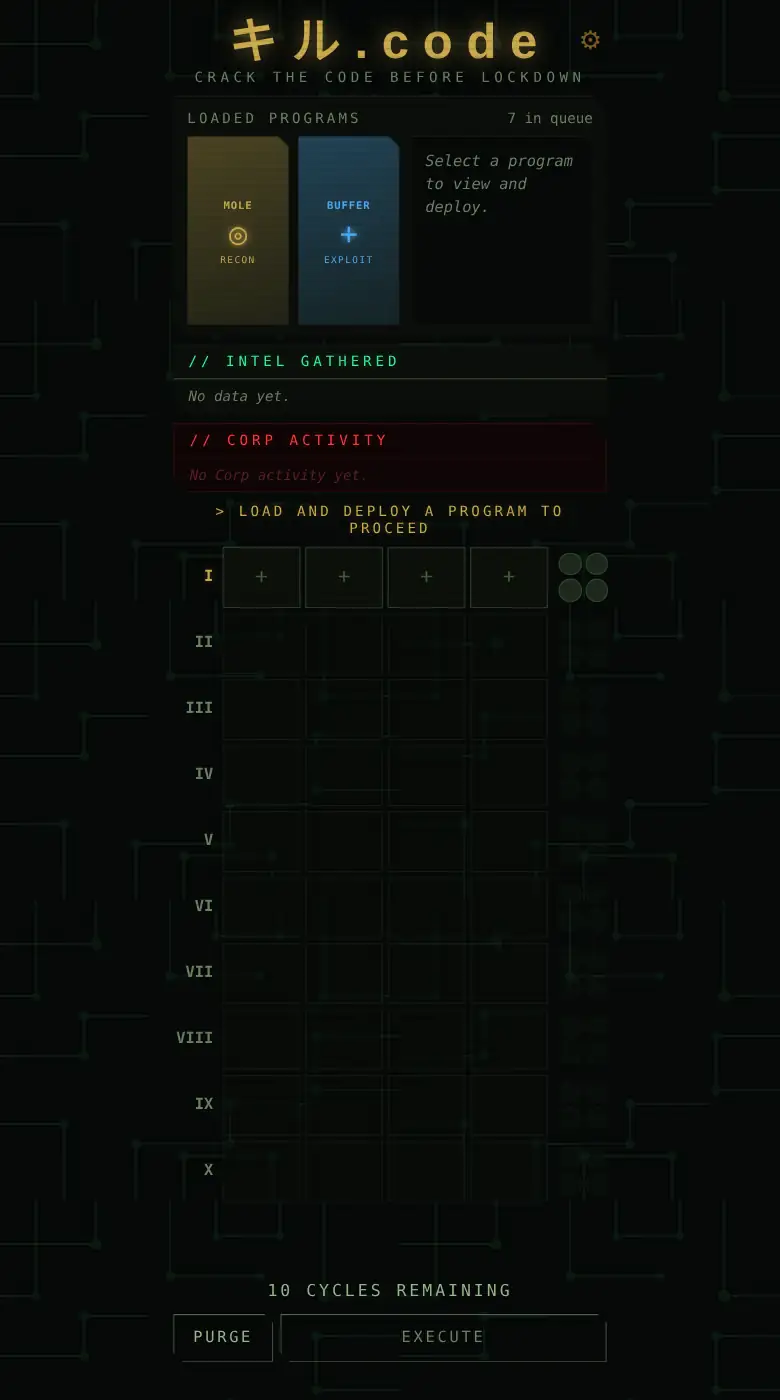
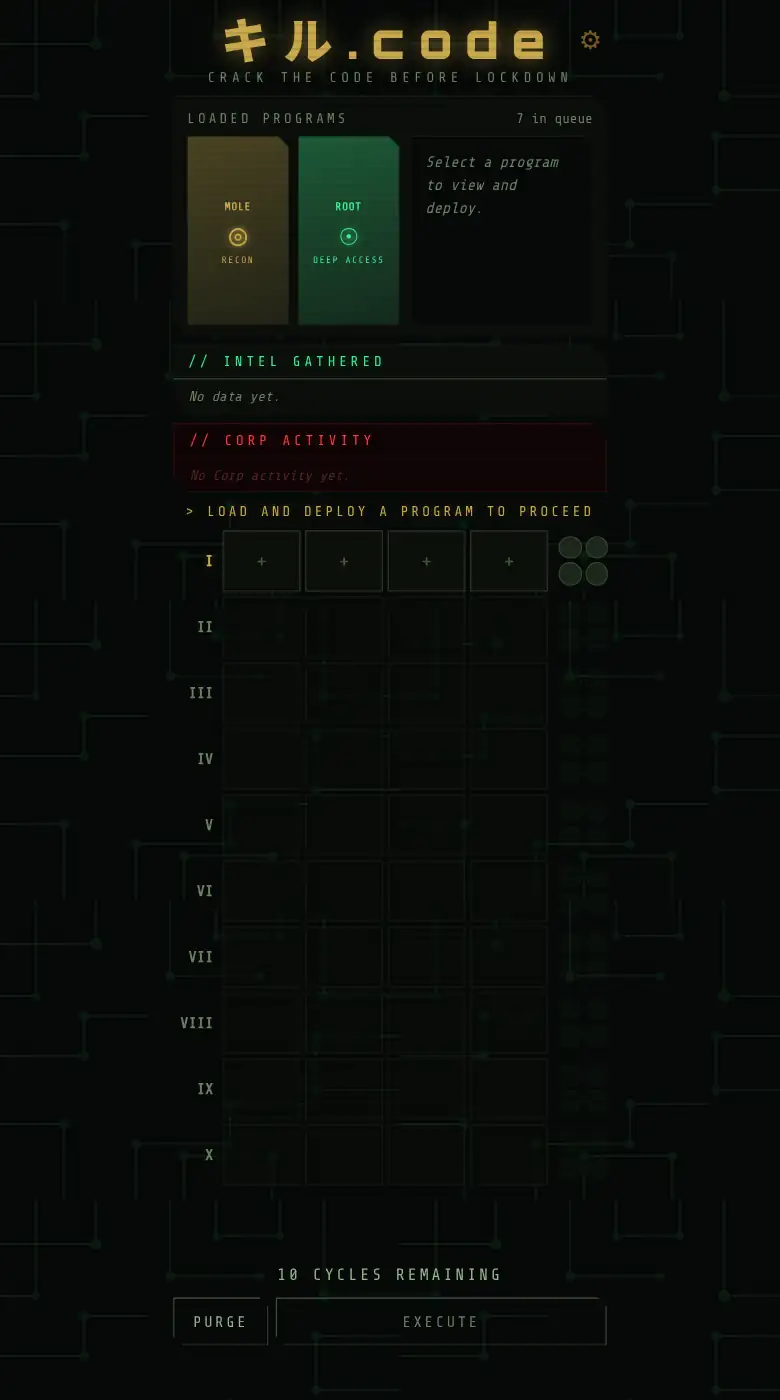
kill.code: gallery shots for Ship It!
Eight auto shots in killcode/media/: probe key picker, first intel, ICE
defenses banner, corp activity, late board, breach, lockdown, record.
Refreshed the Ship It! shot.

Claude-Session: https://claude.ai/code/session_018Qu8C2nWw2SFiG4XcUPsmn

diff --git a/shipit/shots.js b/shipit/shots.js
@@ -37,8 +37,8 @@ const SHOTS={
   "on": "2026-11-25"
  },
  "killcode": {
-  "src": "shots/killcode.webp?v=2026-11-25",
-  "on": "2026-11-25"
+  "src": "shots/killcode.webp?v=2026-11-26",
+  "on": "2026-11-26"
  },
  "murmur": {
   "src": "shots/murmur.webp?v=2026-11-25",
